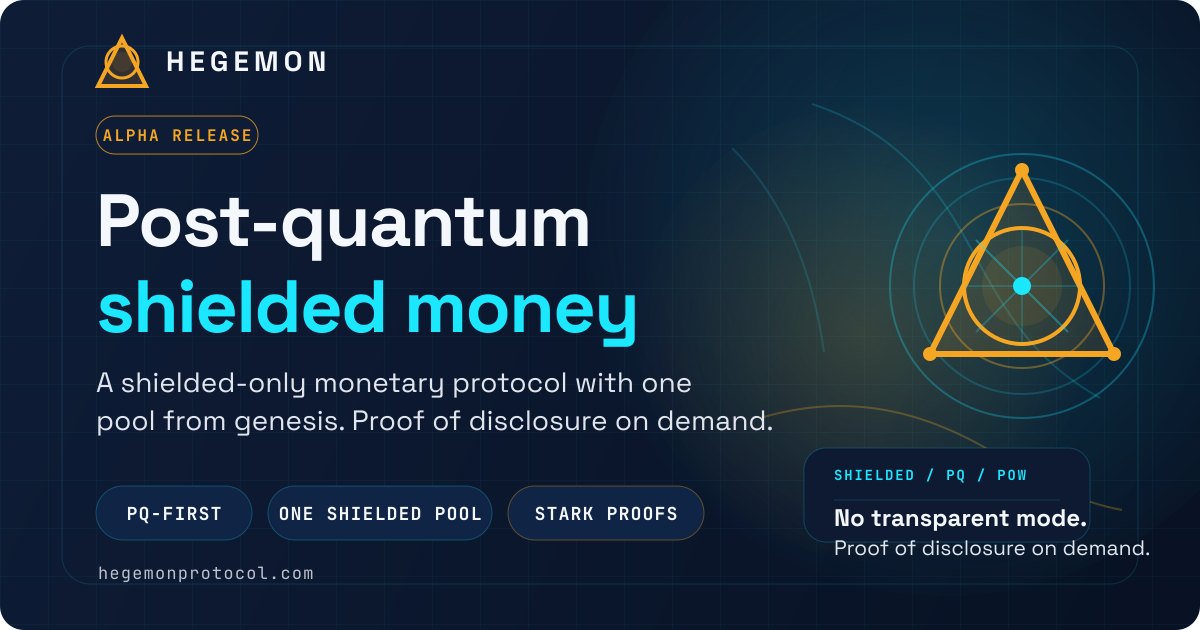
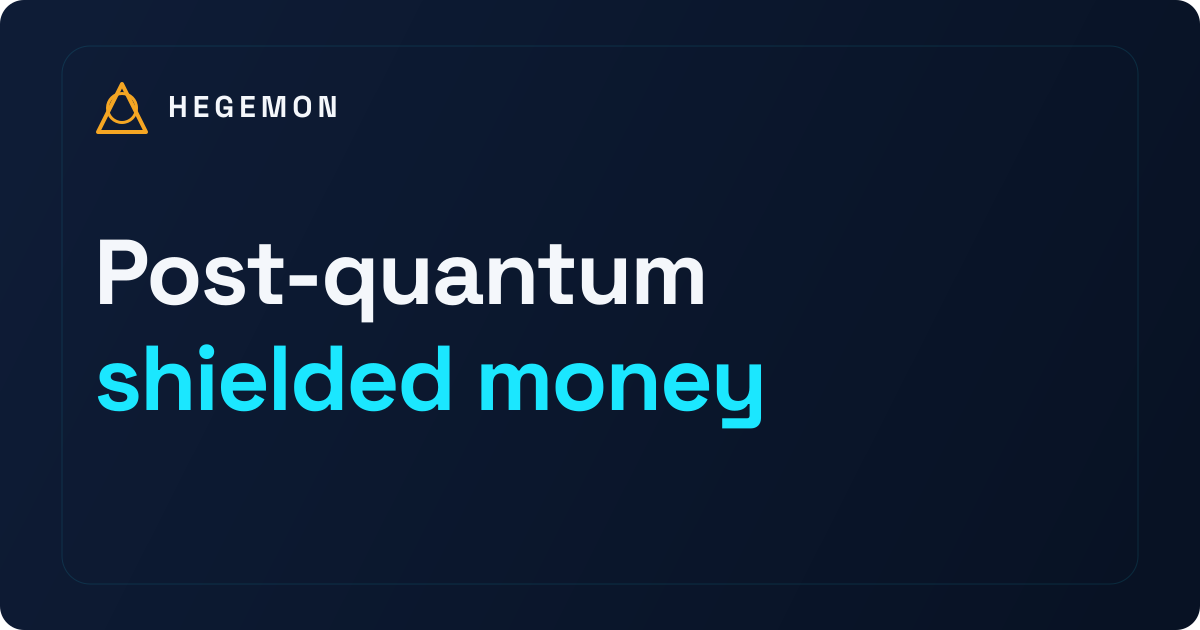
feat(website): update social card metadata and improve image description

diff --git a/website/index.html b/website/index.html
@@ -8,20 +8,20 @@
     <link rel="canonical" href="https://hegemonprotocol.com/">
     <meta property="og:site_name" content="HEGEMON">
     <meta property="og:title" content="HEGEMON — Post-Quantum Shielded Money">
-    <meta property="og:description" content="HEGEMON is post-quantum shielded money: a shielded-only monetary protocol with one pool from genesis, self-custody by default, transparent proofs, and proof of disclosure when specific facts must be proven.">
+    <meta property="og:description" content="Post-quantum shielded money.">
     <meta property="og:type" content="website">
     <meta property="og:url" content="https://hegemonprotocol.com/">
-    <meta property="og:image" content="https://hegemonprotocol.com/social-card.png?v=20260422">
-    <meta property="og:image:secure_url" content="https://hegemonprotocol.com/social-card.png?v=20260422">
+    <meta property="og:image" content="https://hegemonprotocol.com/social-card.png?v=20260423b">
+    <meta property="og:image:secure_url" content="https://hegemonprotocol.com/social-card.png?v=20260423b">
     <meta property="og:image:type" content="image/png">
     <meta property="og:image:width" content="1200">
     <meta property="og:image:height" content="630">
-    <meta property="og:image:alt" content="HEGEMON social card showing the protocol emblem and the headline Post-quantum shielded money.">
+    <meta property="og:image:alt" content="HEGEMON logo and the headline Post-quantum shielded money.">
     <meta name="twitter:card" content="summary_large_image">
     <meta name="twitter:title" content="HEGEMON — Post-Quantum Shielded Money">
-    <meta name="twitter:description" content="HEGEMON is post-quantum shielded money: a shielded-only monetary protocol with one pool from genesis, self-custody by default, transparent proofs, and proof of disclosure when specific facts must be proven.">
-    <meta name="twitter:image" content="https://hegemonprotocol.com/social-card.png?v=20260422">
-    <meta name="twitter:image:alt" content="HEGEMON social card showing the protocol emblem and the headline Post-quantum shielded money.">
+    <meta name="twitter:description" content="Post-quantum shielded money.">
+    <meta name="twitter:image" content="https://hegemonprotocol.com/social-card.png?v=20260423b">
+    <meta name="twitter:image:alt" content="HEGEMON logo and the headline Post-quantum shielded money.">
     <meta name="theme-color" content="#0E1C36">
     
     <!-- Fonts (self-hosted) -->
